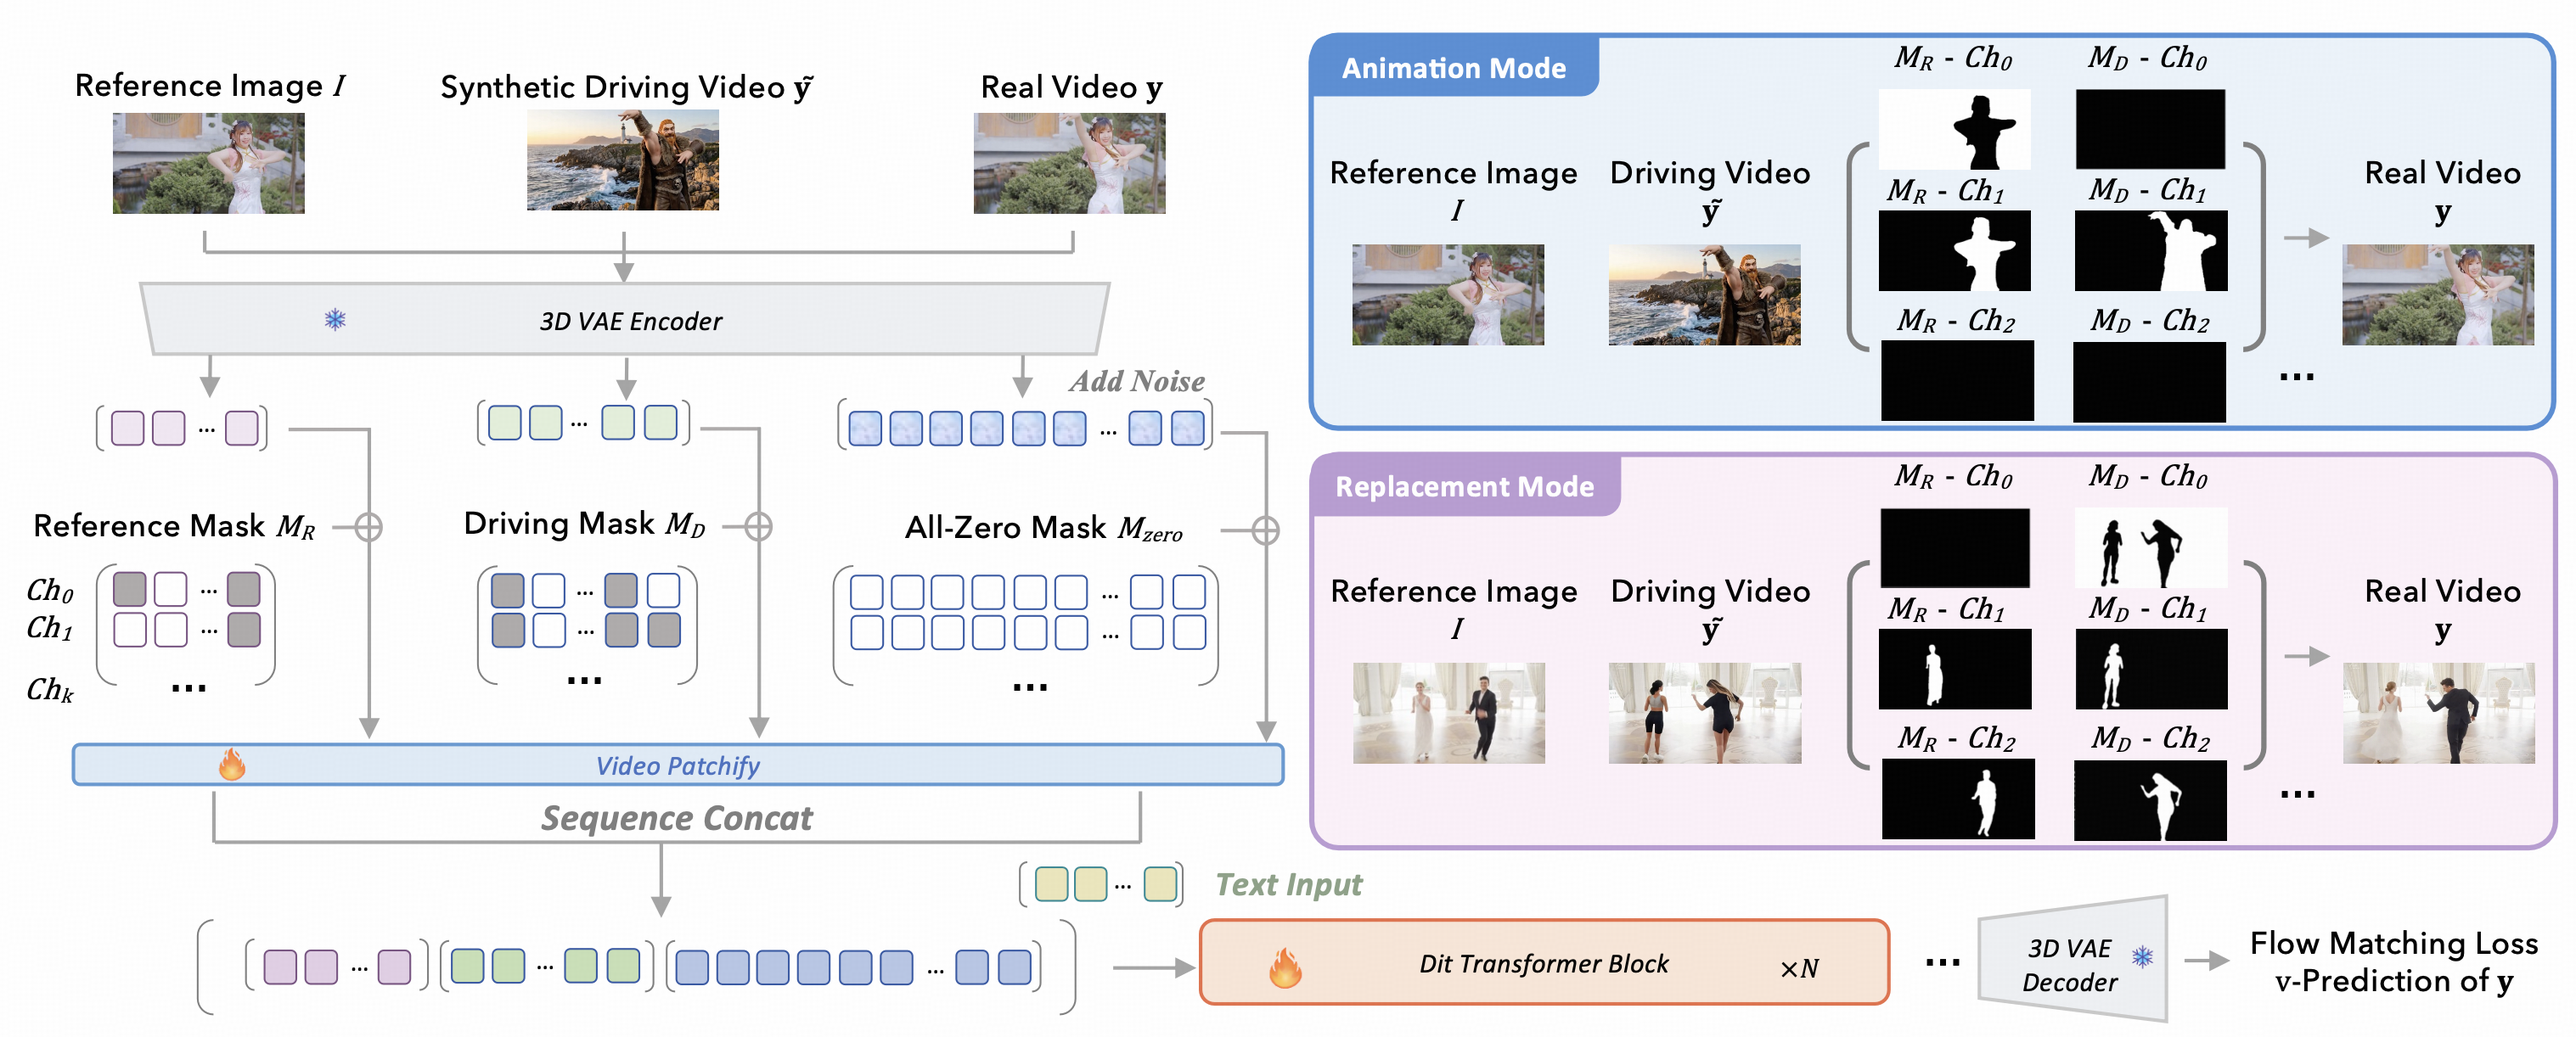
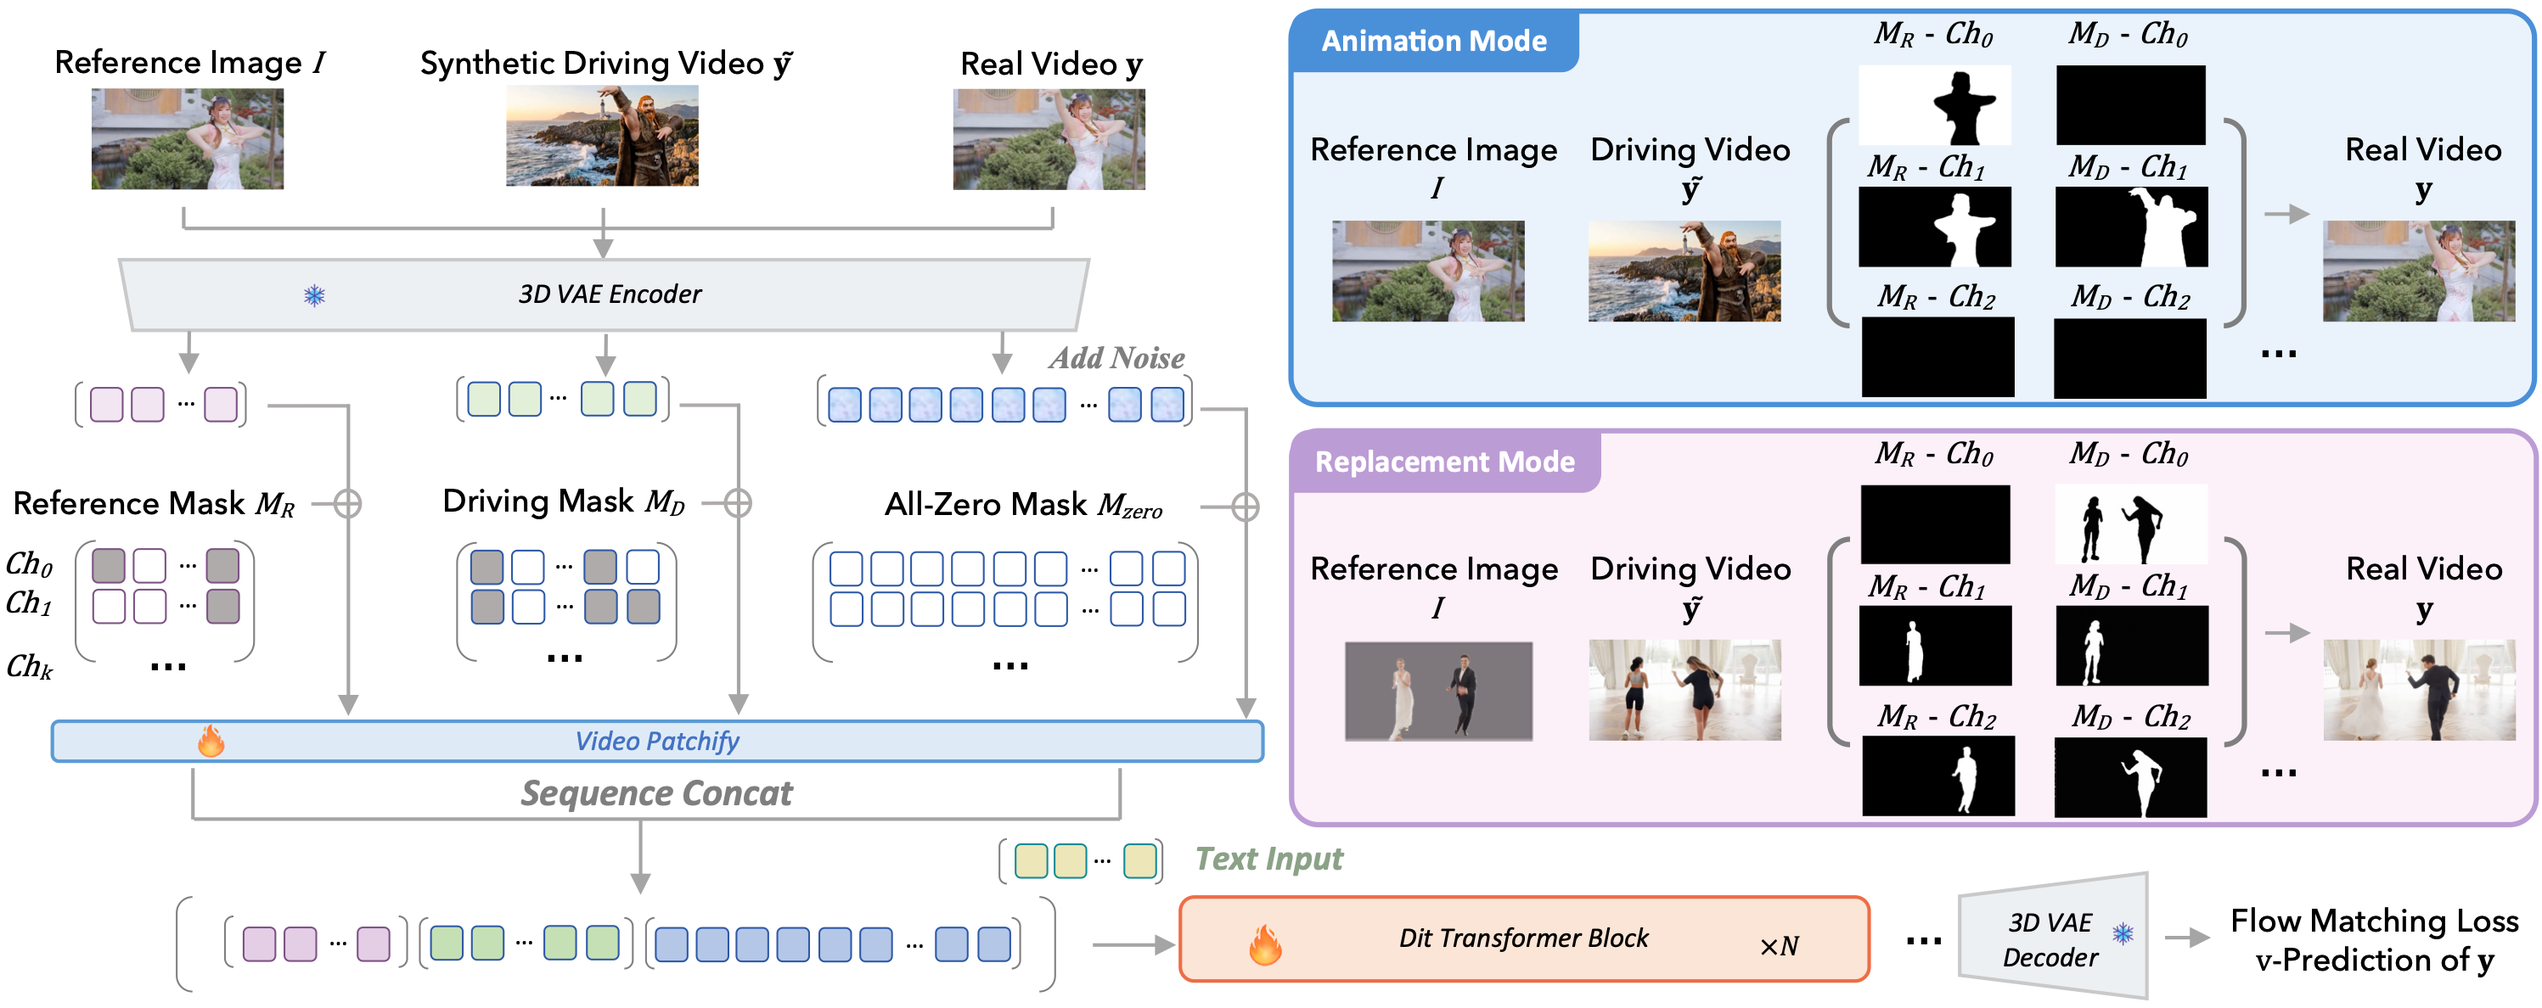
update README narrative and refresh figures
Refine title, intro, and motivation section to better frame the
intermediate-representation problem; reference new preteaser.png
and pipeline.png alongside refreshed network.png and teaser.png.

diff --git a/README.md b/README.md
@@ -1,4 +1,4 @@
- <h1>SCAIL-2: Unifying Character Image Animation with End-to-end In-Context Conditioning</h1>
+ <h1>SCAIL-2: Unifying Controlled Character Animation with End-to-end In-Context Conditioning</h1>
 
 
  <div align="center">
@@ -10,9 +10,7 @@
 
 
 
-This repository contains the official implementation code of SCAIL-2: Unifying Character Image Animation with End-to-end In-Context Conditioning. The code is for the inference of SCAIL-2 Model, the first open-source model to support **End-to-End** Character Animation.
-
-> **Reproducing paper results?** Use the [`sat-scail2`](https://github.com/teal024/SCAIL-2/tree/sat-scail2) branch, which preserves the original SAT-based implementation that produced the numbers reported in the paper. This branch (`wan-scail2`) is the streamlined Wan-based pipeline recommended for general inference.
+This repository contains the official implementation code of SCAIL-2: Unifying Controlled Character Animation with End-to-end In-Context Conditioning. The code is for the inference of SCAIL-2 Model, an open-source model to support **End-to-End** Character Animation. 
 
 
 <p align="center">
@@ -20,18 +18,25 @@ This repository contains the official implementation code of SCAIL-2: Unifying C
 </p>
 
 ## 🔎 Motivation and Results
-SCAIL-1 identifies the key bottlenecks that hinder character animation towards production level: how to represent the pose and how to inject the pose. However, the reliance on intermediate pose representation still hinders the model towards complex motion and generalizable identity. In this work, we try to expand the application of character animation from **Human2Any** to **Any2Any** with **End-to-End Conditioning**.
+SCAIL-1 identifies the key bottlenecks that hinder character animation towards production level: how to represent the pose and how to inject the pose. However, the reliance on intermediate pose representation still hinders the model towards complex motion and generalizable identity. We define the issue as over reliance on intermediates.
+
+As intermediates, skeleton maps suffer from inherent ambiguity under complex scenarios. Further, it restricts the driving source to be exocentric human movements and thus cannot handle driving sources like animals. Character replacement and multi-character animation suffers from similar issues, where state-of-the-art methods use inpainting masks, but such masks are still a form of intermediates and limits the application and bounds the performance.
+
 
 <p align="center">
-  <img src='resources/network.png' alt='Teaser' width='90%'>
+  <img src='resources/preteaser.png' alt='preteaser' width='50%'>
 </p>
 
 
-To bypass intermediate pose representation, we utilize several off-the-shelf open-source model to synthesize 40K motion pairs, of which over 60% are generated by SCAIL-1. We design a Unified Motion Transfer Interface, containing 2 type of masking channels and a dedicated RoPE design to support training on the heterogeneous data.
-From the data composition, the final model yield emergent capabilities. For example, it supports cross-identity replacement, and it can now support more advanced control intermediate like [SAM3D-Body](https://github.com/facebookresearch/sam-3d-body)'s mesh rendering in zero-shot manner with noticable performance improvements.
+
+To bypass intermediate pose representation, we utilize several off-the-shelf models, including [SCAIL-Preview](https://github.com/zai-org/SCAIL), [Wan-Animate](https://github.com/Wan-Video/Wan2.2), [MoCha](https://github.com/Orange-3DV-Team/MoCha) to synthesize 60K motion pairs. By designing a Unified Motion Transfer Interface containing 2 type of masking channels and a dedicated RoPE design, we support training with all those data. We utilize **reserve driving**, so that the model can learn capabilities beyond those models. From the data composition and the training recipe, the final model yield emergent capabilities. For example, it supports cross-identity replacement, animal-driving scenarios, and support more advanced control intermediate like [SAM3D-Body](https://github.com/facebookresearch/sam-3d-body)'s mesh rendering in zero-shot manner.
 
 <p align="center">
-  <img src='resources/rope.png' alt='Teaser' width='40%'>
+  <img src='resources/pipeline.png' alt='pipeline' width='90%'>
+</p>
+
+<p align="center">
+  <img src='resources/network.png' alt='Teaser' width='90%'>
 </p>
 
 
